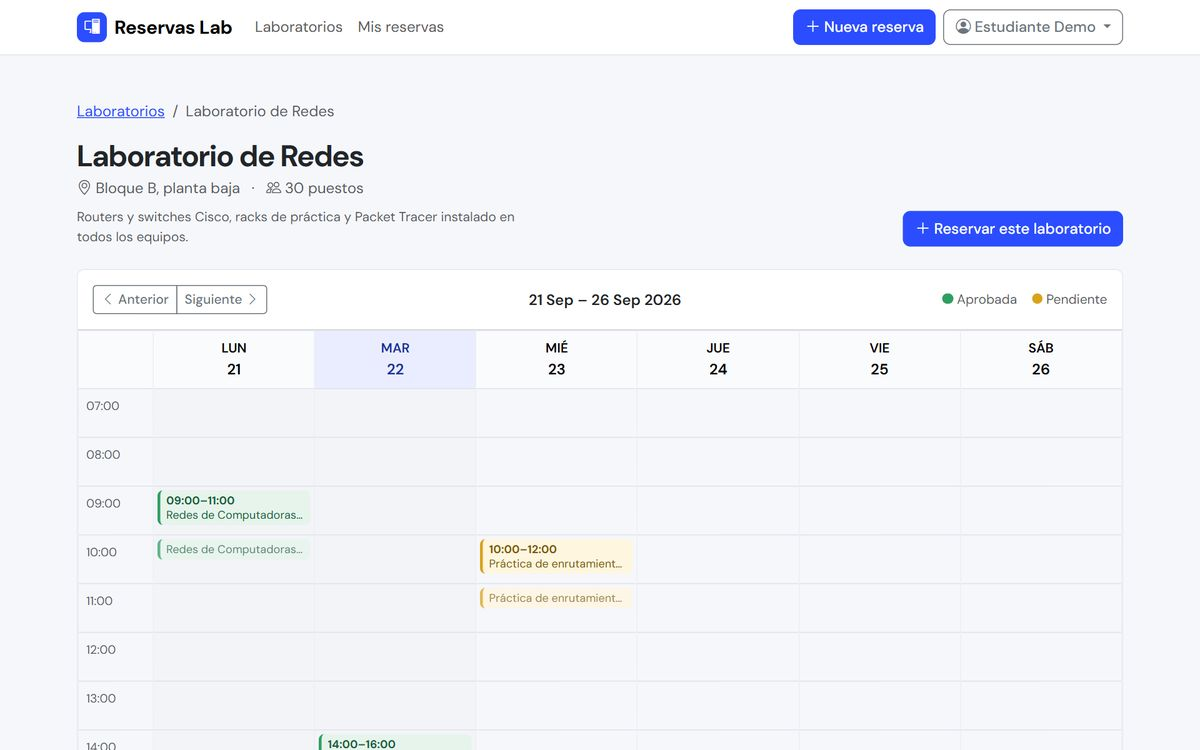
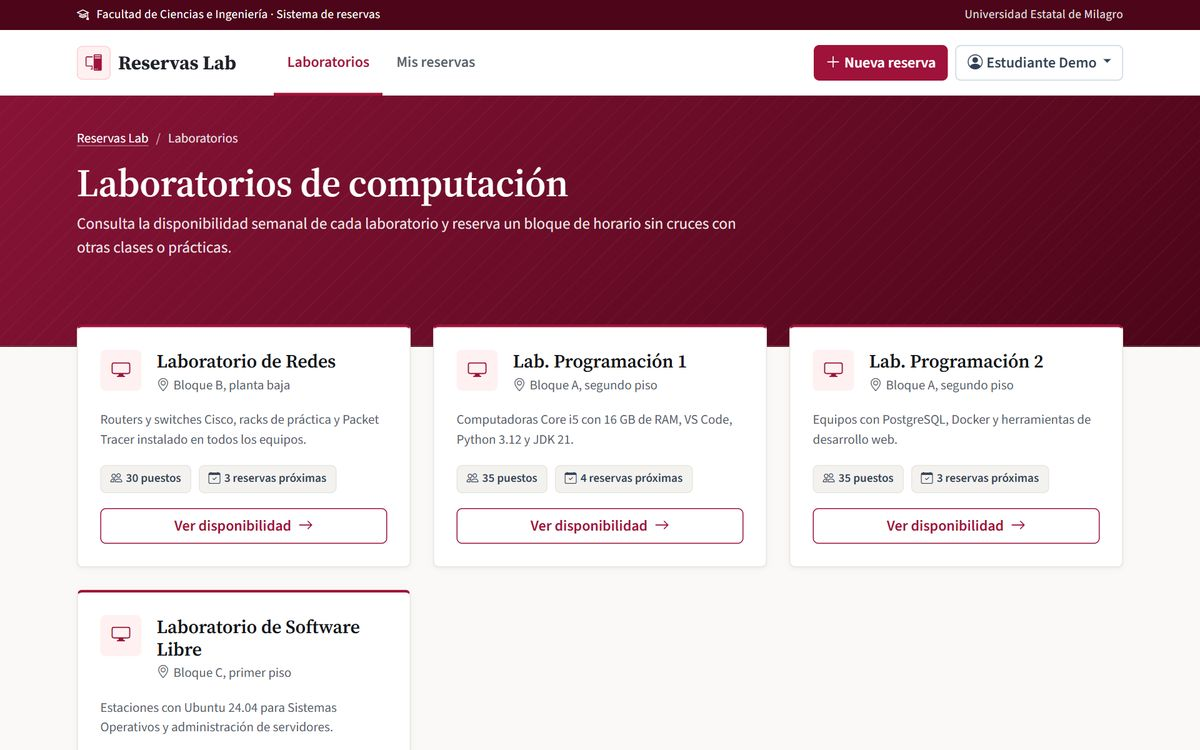
Capturas de los proyectos con su nuevo diseño

diff --git a/index.html b/index.html
@@ -406,7 +406,7 @@
           </article>
           <article class="project-card" id="proyecto-reservas" data-tags="django postgresql bootstrap">
             <figure class="project-card__media">
-              <img src="assets/img/proyecto-reservas.jpg" alt="Calendario semanal de Reservas Lab con bloques de reservas aprobadas y pendientes en el Laboratorio de Redes" width="1200" height="750" loading="lazy">
+              <img src="assets/img/proyecto-reservas.jpg" alt="Página de inicio de Reservas Lab con las tarjetas de los laboratorios de computación de la facultad" width="1200" height="750" loading="lazy">
               <figcaption class="project-card__caption">Proyecto personal · 2026</figcaption>
             </figure>
             <div class="project-card__body">
